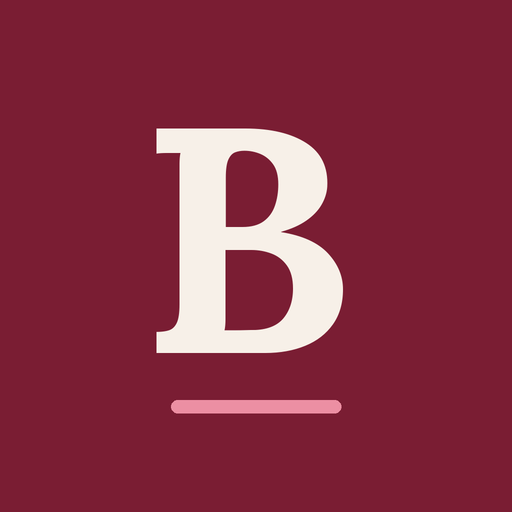
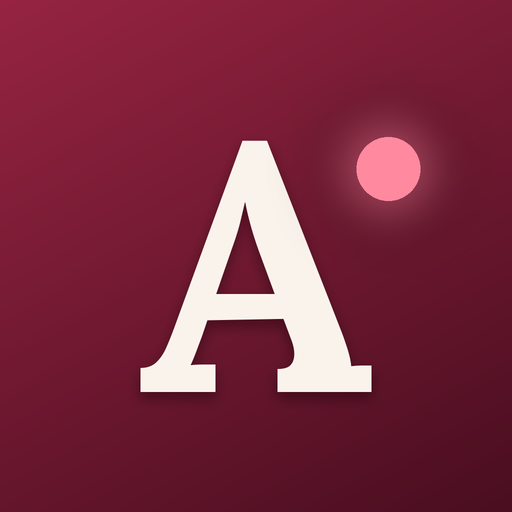
Rename to Awesome News; add Get the app steps, share link, QR code, link preview and offline support
Claude-Session: https://claude.ai/code/session_01ThNhFVJ52fuLizAWmZ7iAg

diff --git a/app.html b/app.html
@@ -1,4 +1,4 @@
-<title>Daily Brief</title>
+<title>Awesome News</title>
 <meta name="claude:viewport-fit-sides" content="cover">
 <link rel="preconnect" href="https://fonts.googleapis.com">
 <link rel="preconnect" href="https://fonts.gstatic.com" crossorigin>
@@ -249,6 +249,38 @@ main { padding-bottom: calc(env(safe-area-inset-bottom, 0px) + 28px); }
 .danger { color: #b3261e; font-weight: 600; }
 :root[data-theme="dark"] .danger { color: #ff8a80; }
 @media (prefers-color-scheme: dark) { :root:not([data-theme="light"]) .danger { color: #ff8a80; } }
+/* Get the app + share */
+.appcard { display: flex; align-items: center; gap: 14px; padding: 16px; border-bottom: 1px solid var(--line); }
+.appicon { width: 64px; height: 64px; border-radius: 15px; flex: none; box-shadow: 0 6px 16px rgba(74, 14, 32, 0.35); max-width: 100%; }
+.appcard .nm { font-family: var(--display); font-weight: 700; font-size: 1.25rem; line-height: 1.15; }
+.appcard .tg { font-size: 0.82rem; color: var(--muted); margin-top: 2px; }
+.ok-line { display: inline-flex; align-items: center; gap: 6px; margin-top: 6px; font-size: 0.82rem; font-weight: 700; color: var(--ok); }
+.ok-line svg { width: 16px; height: 16px; }
+.platforms { padding: 12px 14px 4px; display: flex; justify-content: center; }
+.steps { list-style: none; margin: 0; padding: 6px 16px 16px; counter-reset: step; display: grid; gap: 12px; }
+.steps li { counter-increment: step; display: grid; grid-template-columns: 30px minmax(0, 1fr); gap: 12px; align-items: start; font-size: 0.92rem; }
+.steps li::before { content: counter(step); width: 28px; height: 28px; border-radius: 50%; background: var(--accent-soft); color: var(--accent); font-weight: 700; font-size: 0.84rem; display: grid; place-items: center; }
+.steps b { font-weight: 700; }
+.kbd { display: inline-flex; align-items: center; justify-content: center; vertical-align: -5px; width: 24px; height: 24px; border-radius: 6px; background: var(--bg); box-shadow: inset 0 0 0 1px var(--line); color: var(--accent); margin: 0 2px; }
+.kbd svg { width: 15px; height: 15px; }
+.steps .note { display: block; margin-top: 3px; font-size: 0.8rem; color: var(--muted); }
+.btn-row { display: flex; gap: 10px; padding: 0 16px 16px; flex-wrap: wrap; }
+.btn-row .cta { margin-top: 0; flex: 1 1 140px; padding: 13px 14px; font-size: 0.92rem; }
+.preview { margin: 16px; border-radius: 14px; overflow: hidden; box-shadow: 0 0 0 1px var(--line); background: var(--bg); }
+.preview .banner-img { background: linear-gradient(120deg, #7a1d33, #340a18); padding: 18px; display: flex; align-items: center; gap: 14px; color: #faf3ec; }
+.preview .banner-img img { width: 54px; height: 54px; border-radius: 13px; flex: none; max-width: 100%; }
+.preview .banner-img .nm { font-family: var(--display); font-weight: 700; font-size: 1.3rem; }
+.preview .banner-img .tg { font-size: 0.78rem; color: #f6c8d4; }
+.preview .meta-line { padding: 10px 14px 12px; font-size: 0.8rem; color: var(--muted); }
+.preview .meta-line b { display: block; color: var(--ink); font-size: 0.9rem; }
+.linkbox { display: flex; align-items: center; gap: 8px; margin: 0 16px 14px; padding: 4px 4px 4px 12px; border-radius: 10px; background: var(--bg); box-shadow: inset 0 0 0 1px var(--line); }
+.linkbox input { flex: 1; min-width: 0; border: 0; background: transparent; font-size: 0.86rem; color: var(--ink); padding: 8px 0; outline: none; text-overflow: ellipsis; }
+.linkbox button { flex: none; padding: 8px 12px; border-radius: 8px; background: var(--ink); color: var(--bg); font-weight: 700; font-size: 0.8rem; }
+.qr { display: flex; align-items: center; gap: 16px; padding: 14px 16px 16px; border-top: 1px solid var(--line); }
+.qr .code { width: 112px; height: 112px; flex: none; border-radius: 12px; background: #ffffff; padding: 8px; display: grid; place-items: center; }
+.qr .code svg { width: 100%; height: 100%; display: block; }
+.qr p { margin: 0; font-size: 0.86rem; color: var(--muted); }
+.qr p b { display: block; color: var(--ink); font-size: 0.95rem; margin-bottom: 2px; }
 .about { margin-top: 26px; font-size: 0.8rem; line-height: 1.6; color: var(--muted); text-align: center; text-wrap: balance; }
 
 /* ---------- Toast ---------- */
@@ -275,7 +307,7 @@ main { padding-bottom: calc(env(safe-area-inset-bottom, 0px) + 28px); }
     <header class="head">
       <div>
         <div class="eyebrow" id="eyebrow">Today</div>
-        <h1 class="title" id="title">Daily Brief</h1>
+        <h1 class="title" id="title">Awesome News</h1>
         <div class="stamp"><span class="live stale" id="live"></span><span id="stamp">Loading the latest stories</span></div>
       </div>
       <div class="head-actions">
@@ -336,6 +368,9 @@ main { padding-bottom: calc(env(safe-area-inset-bottom, 0px) + 28px); }
   // Config
   // ======================================================================
   const DEFAULT_NAME = "";            // set per build (the private copy greets its owner)
+  const APP_NAME = "Awesome News";
+  const PUBLIC_URL = "https://ashley-pettit.github.io/awesome-news/";
[1 lines of base64/hex data omitted]
   const SECTIONS = [
     { id: "local", label: "Local", tag: "Local" },
     { id: "headlines", label: "Headlines", tag: "Headlines" },
@@ -522,7 +557,7 @@ main { padding-bottom: calc(env(safe-area-inset-bottom, 0px) + 28px); }
   // ======================================================================
   const toolsHTML = (label) => `<div class="list-tools"><span>${label}</span>
       <button class="switch" type="button" role="switch" id="hideRead" aria-checked="${state.hideRead}">Hide read<span class="track"></span></button></div>`;
-  const welcomeHTML = () => S.welcomed ? "" : `<div class="banner"><p><strong>Make it yours</strong>Add your name, pick your local area and choose your tabs.</p>
+  const welcomeHTML = () => S.welcomed ? "" : `<div class="banner"><p><strong>Make it yours</strong>Add your name, pick your local area, and put ${APP_NAME} on your home screen.</p>
       <button class="pill-btn" type="button" data-open-settings>Set up</button>
       <button class="x-btn" type="button" id="dismissWelcome" aria-label="Dismiss">${I.x}</button></div>`;
 
@@ -718,11 +753,94 @@ main { padding-bottom: calc(env(safe-area-inset-bottom, 0px) + 28px); }
   const seg = (name, value, opts) => `<div class="seg" role="group">${opts.map(([v, l, aria]) => `<button type="button" data-seg="${name}" data-val="${v}" aria-pressed="${value === v}"${aria ? ` aria-label="${aria}"` : ""}>${l}</button>`).join("")}</div>`;
   const toggle = (attr, key, on, label, sub) => `<button class="field" type="button" role="switch" ${attr}="${esc(key)}" aria-checked="${on}"><span class="lbl">${label}${sub ? `<span class="sub">${sub}</span>` : ""}</span><span class="track"></span></button>`;
   const tokens = (kind, list) => `<div class="tokens">${list.map((w, n) => `<span class="token">${esc(w)}<button type="button" data-remove="${kind}" data-n="${n}" aria-label="Remove ${esc(w)}">${I.x}</button></span>`).join("")}</div>`;
+  // ---------- Get the app ----------
+  let installEvent = null;
+  window.addEventListener("beforeinstallprompt", e => { e.preventDefault(); installEvent = e; if (openSheet === "settings") renderSettings(); });
+  window.addEventListener("appinstalled", () => { installEvent = null; toast(`${APP_NAME} is on your home screen`); if (openSheet === "settings") renderSettings(); });
+  const ua = navigator.userAgent || "";
+  const isIOS = /iPhone|iPad|iPod/.test(ua) || (/Macintosh/.test(ua) && navigator.maxTouchPoints > 1);
+  const isAndroid = /Android/.test(ua);
+  const standalone = () => window.matchMedia?.("(display-mode: standalone)").matches || navigator.standalone === true;
+  let stepsFor = isAndroid ? "android" : "ios";
+  const shareUrl = () => state.mode === "static" && /^https?:/.test(location.protocol) ? location.origin + location.pathname : PUBLIC_URL;
+  const K = {
+    share: `<span class="kbd"><svg viewBox="0 0 24 24" fill="none" stroke="currentColor" stroke-width="2.2" stroke-linecap="round" stroke-linejoin="round" aria-label="Share"><path d="M12 15V4M8 8l4-4 4 4"/><path d="M5 12v6.5A1.5 1.5 0 0 0 6.5 20h11a1.5 1.5 0 0 0 1.5-1.5V12"/></svg></span>`,
+    plus: `<span class="kbd"><svg viewBox="0 0 24 24" fill="none" stroke="currentColor" stroke-width="2.2" stroke-linecap="round" aria-label="Add"><rect x="4" y="4" width="16" height="16" rx="3"/><path d="M12 8v8M8 12h8"/></svg></span>`,
+    dots: `<span class="kbd"><svg viewBox="0 0 24 24" fill="currentColor" aria-label="Menu"><circle cx="12" cy="5.5" r="1.8"/><circle cx="12" cy="12" r="1.8"/><circle cx="12" cy="18.5" r="1.8"/></svg></span>`,
+  };
+  const steps = k => ({
+    ios: `<ol class="steps">
+        <li><span>Open ${state.mode === "claude" ? "the link" : "this page"} in <b>Safari</b> and tap the Share button ${K.share} at the bottom.</span></li>
+        <li><span>Scroll down and tap <b>Add to Home Screen</b> ${K.plus}<span class="note">In Chrome on iPhone, the Share button is in the address bar.</span></span></li>
+        <li><span>Tap <b>Add</b>. The ${APP_NAME} icon is now on your home screen.</span></li></ol>`,
+    android: `<ol class="steps">
+        <li><span>Open ${state.mode === "claude" ? "the link" : "this page"} in <b>Chrome</b> and tap the menu ${K.dots} at the top right.</span></li>
+        <li><span>Tap <b>Add to Home screen</b> or <b>Install app</b>.</span></li>
+        <li><span>Tap <b>Install</b>. ${APP_NAME} opens full screen, just like an app.</span></li></ol>`,
+  })[k];
+  function getAppHTML() {
+    const head = `<div class="appcard"><img class="appicon" src="${APP_ICON}" alt=""><div><div class="nm">${APP_NAME}</div><div class="tg">Local, politics, finance, tech and AI news</div>
+      ${standalone() ? `<div class="ok-line">${I.tick} You're using the app</div>` : ""}</div></div>`;
+    if (standalone()) return `<div class="group"><h2>Phone app</h2><div class="card">${head}</div></div>`;
+    const install = installEvent ? `<div class="btn-row"><button class="cta" type="button" id="installBtn">Install ${APP_NAME}</button></div>` : "";
+    const openPublic = state.mode === "claude" ? `<div class="btn-row"><a class="cta" href="${esc(PUBLIC_URL)}" target="_blank" rel="noopener">Open ${APP_NAME} on your phone ${I.out}</a></div>` : "";
+    return `<div class="group"><h2>Get the app</h2><div class="card">${head}
+      ${install}${openPublic}
+      <div class="platforms">${seg("stepsFor", stepsFor, [["ios", "iPhone"], ["android", "Android"]])}</div>
+      ${steps(stepsFor)}
+    </div><p class="hint">No app store needed. It works offline for stories you've already loaded.</p></div>`;
+  }
+
+  // ---------- Share ----------
+  function shareHTML() {
+    const url = shareUrl();
+    const canShare = state.mode === "static" && typeof navigator.share === "function";
+    return `<div class="group"><h2>Share ${APP_NAME}</h2><div class="card">
+      <div class="preview" aria-hidden="true">
+        <div class="banner-img"><img src="${APP_ICON}" alt=""><div><div class="nm">${APP_NAME}</div><div class="tg">Free full articles. No paywalls, no sport.</div></div></div>
+        <div class="meta-line"><b>${APP_NAME}</b>${esc(url.replace(/^https?:\/\//, "").replace(/\/$/, ""))}</div>
+      </div>
+      <div class="linkbox"><input type="text" id="shareLink" readonly value="${esc(url)}" aria-label="Link to ${APP_NAME}"><button type="button" id="copyLink">Copy</button></div>
+      ${canShare ? `<div class="btn-row"><button class="cta" type="button" id="shareApp">Share with a friend</button></div>` : ""}
+      <div class="qr"><div class="code" id="qrCode" aria-label="QR code for ${esc(url)}"></div><p><b>Scan to open</b>Point a phone camera at this code to open ${APP_NAME}.</p></div>
+    </div></div>`;
+  }
+  let qrLib = null;
+  function drawQR() {
+    const box = $("qrCode");
+    if (!box) return;
+    const paint = () => {
+      try {
+        const qr = window.qrcode(0, "M");
+        qr.addData(shareUrl());
+        qr.make();
+        box.innerHTML = qr.createSvgTag({ cellSize: 4, margin: 0, scalable: true });
+      } catch { box.parentElement.hidden = true; }
+    };
+    if (window.qrcode) return paint();
+    if (!qrLib) {
+      qrLib = new Promise((ok, bad) => {
+        const sc = document.createElement("script");
+        sc.src = "https://cdnjs.cloudflare.com/ajax/libs/qrcode-generator/1.4.4/qrcode.min.js";
+        sc.onload = ok; sc.onerror = bad;
+        document.head.appendChild(sc);
+      });
+    }
+    qrLib.then(paint, () => { box.parentElement.hidden = true; });
+  }
+  async function copyLink() {
+    const url = shareUrl(), input = $("shareLink");
+    try { await navigator.clipboard.writeText(url); toast("Link copied"); }
+    catch { if (input) { input.focus(); input.select(); } toast("Link selected. Copy it from the box."); }
+  }
+
   function renderSettings() {
     const regions = state.status?.regions || REGION_FALLBACK;
     const counts = state.status?.counts || {};
     $("sBody").innerHTML = `
       <h1>Settings</h1>
+      ${getAppHTML()}
+      ${shareHTML()}
       <div class="group"><h2>You</h2><div class="card">
         <div class="field"><label for="setName">Your name</label><input type="text" id="setName" placeholder="Optional" autocomplete="given-name" maxlength="30" value="${esc(S.name)}"></div>
         <div class="field"><label for="setRegion">Local news</label><select id="setRegion">${regions.map(r => `<option value="${r.id}"${r.id === S.region ? " selected" : ""}>${esc(r.label)}${counts["local-" + r.id] != null ? ` (${counts["local-" + r.id]})` : ""}</option>`).join("")}</select></div>
@@ -757,9 +875,10 @@ main { padding-bottom: calc(env(safe-area-inset-bottom, 0px) + 28px); }
         <button class="field danger" type="button" id="clearSaved">Clear saved stories <span class="sub" style="color:var(--muted)">${state.saved.length} saved</span></button>
       </div></div>
 
-      <p class="about">Daily Brief pulls from free, full-article sources only: ABC, Guardian Australia, SBS, The Conversation, BBC, Ars Technica, TechCrunch and iTnews. No paywalls, no sport.${state.status?.updatedAt ? `<br>Stories last updated ${esc(longDate(state.status.updatedAt))}.` : ""}</p>`;
+      <p class="about">Awesome News pulls from free, full-article sources only: ABC, Guardian Australia, SBS, The Conversation, BBC, Ars Technica, TechCrunch and iTnews. No paywalls, no sport.${state.status?.updatedAt ? `<br>Stories last updated ${esc(longDate(state.status.updatedAt))}.` : ""}</p>`;
     // Size the A buttons so they read as small to large.
     document.querySelectorAll('[data-seg="textSize"]').forEach((b, n) => { b.style.fontSize = ["0.78rem", "0.9rem", "1.02rem", "1.16rem"][n]; });
+    drawQR();
   }
   function openSettings() {
     S.welcomed = true; saveSettings();
@@ -816,6 +935,9 @@ main { padding-bottom: calc(env(safe-area-inset-bottom, 0px) + 28px); }
     }
     if (t.closest("#hideRead")) { state.hideRead = !state.hideRead; store.set("brief.hideRead", state.hideRead); render(true); return; }
     if (t.closest("#rSave")) { toggleSave(state.readerId); return; }
+    if (t.closest("#copyLink")) { copyLink(); return; }
+    if (t.closest("#shareApp")) { navigator.share({ title: APP_NAME, text: "Local, politics, finance, tech and AI news. Free full articles, no paywalls, no sport.", url: shareUrl() }).catch(() => {}); return; }
+    if (t.closest("#installBtn") && installEvent) { installEvent.prompt(); installEvent.userChoice.finally(() => { installEvent = null; renderSettings(); }); return; }
     if (t.closest("#rShare")) { const i = findItem(state.readerId); if (i) navigator.share({ title: i.title, url: i.url }).catch(() => {}); return; }
     const sv = t.closest("[data-save]");
     if (sv) { toggleSave(sv.dataset.save); if (!openSheet) render(true); else sv.setAttribute("aria-pressed", String(isSaved(sv.dataset.save))); return; }
@@ -843,6 +965,7 @@ main { padding-bottom: calc(env(safe-area-inset-bottom, 0px) + 28px); }
       saveSettings(); src.setAttribute("aria-checked", String(hidden)); return;
     }
     const sg = t.closest("[data-seg]");
+    if (sg && sg.dataset.seg === "stepsFor") { stepsFor = sg.dataset.val; renderSettings(); return; }
     if (sg) {
       S[sg.dataset.seg] = sg.dataset.val; saveSettings(); applyLook();
       sg.parentElement.querySelectorAll("button").forEach(b => b.setAttribute("aria-pressed", String(b === sg))); return;
@@ -967,6 +1090,7 @@ main { padding-bottom: calc(env(safe-area-inset-bottom, 0px) + 28px); }
     if (db) { state.mode = "claude"; loadClaude(db); return; }
     state.mode = "static";
     $("refresh").hidden = false;
+    if ("serviceWorker" in navigator && location.protocol === "https:") navigator.serviceWorker.register("sw.js").catch(() => {});
     loadStatic(false);
     // Pick up new stories while the app stays open.
     setInterval(() => { if (!document.hidden) loadStatic(false); }, 10 * 60000);

diff --git a/sw.js b/sw.js
@@ -1,0 +1,25 @@
+// Awesome News service worker: network first, so news is always fresh when
+// you're online, with the last copy kept so the app still opens offline.
+const CACHE = "awesome-news-v1";
+
+self.addEventListener("install", () => self.skipWaiting());
+self.addEventListener("activate", e => e.waitUntil(self.clients.claim()));
+
+self.addEventListener("fetch", e => {
+  const req = e.request;
+  const url = new URL(req.url);
+  if (req.method !== "GET" || url.origin !== self.location.origin) return;
+  // One cache entry per file, ignoring the ?v= cache-busting query.
+  const key = url.origin + url.pathname;
+  e.respondWith(
+    fetch(req)
+      .then(res => {
+        if (res.ok) {
+          const copy = res.clone();
+          caches.open(CACHE).then(c => c.put(key, copy));
+        }
+        return res;
+      })
+      .catch(() => caches.match(key).then(hit => hit || Response.error()))
+  );
+});

diff --git a/build.py b/build.py
@@ -16,7 +16,12 @@ here = os.path.dirname(os.path.abspath(__file__))
 app = open(os.path.join(here, "app.html"), encoding="utf-8").read()
 
 m = re.search(r"<title>(.*?)</title>", app)
-title = m.group(1) if m else "Daily Brief"
+title = m.group(1) if m else "Awesome News"
+# Public address, used for the link preview when someone shares the site.
+repo = os.environ.get("GITHUB_REPOSITORY", "Ashley-Pettit/awesome-news")
+owner, name = repo.split("/", 1)
+site_url = os.environ.get("SITE_URL", f"https://{owner.lower()}.github.io/{name}/")
+desc = "Local, politics, finance, tech and AI news from free, full-article sources. No paywalls, no sport."
 body = re.sub(r"<title>.*?</title>\s*", "", app, count=1)
 body = re.sub(r'<meta name="claude:[^"]+"[^>]*>\s*', "", body)
 
@@ -26,12 +31,27 @@ head = f"""<!doctype html>
 <meta charset="utf-8">
 <meta name="viewport" content="width=device-width,initial-scale=1,viewport-fit=cover">
 <title>{title}</title>
-<meta name="description" content="Brisbane and Australian news, politics, finance, tech and AI from free, full-article sources. No paywalls, no sport.">
+<meta name="description" content="{desc}">
+<link rel="canonical" href="{site_url}">
+<meta property="og:type" content="website">
+<meta property="og:site_name" content="{title}">
+<meta property="og:title" content="{title}">
+<meta property="og:description" content="{desc}">
+<meta property="og:url" content="{site_url}">
+<meta property="og:image" content="{site_url}icons/share-card.png">
+<meta property="og:image:width" content="1200">
+<meta property="og:image:height" content="630">
+<meta property="og:image:alt" content="Awesome News app icon and name">
+<meta name="twitter:card" content="summary_large_image">
+<meta name="twitter:title" content="{title}">
+<meta name="twitter:description" content="{desc}">
+<meta name="twitter:image" content="{site_url}icons/share-card.png">
 <meta name="theme-color" content="#f4f3f1" media="(prefers-color-scheme: light)">
+<meta name="format-detection" content="telephone=no">
 <meta name="theme-color" content="#0f0e11" media="(prefers-color-scheme: dark)">
 <meta name="apple-mobile-web-app-capable" content="yes">
 <meta name="mobile-web-app-capable" content="yes">
-<meta name="apple-mobile-web-app-title" content="Daily Brief">
+<meta name="apple-mobile-web-app-title" content="{title}">
 <meta name="apple-mobile-web-app-status-bar-style" content="default">
 <link rel="manifest" href="manifest.webmanifest">
 <link rel="icon" type="image/png" href="icons/favicon-64.png">
@@ -51,5 +71,6 @@ with open(os.path.join(site, "index.html"), "w", encoding="utf-8") as f:
     f.write(head + body.strip() + "\n</body>\n</html>\n")
 shutil.copytree(os.path.join(here, "icons"), os.path.join(site, "icons"), dirs_exist_ok=True)
 shutil.copy(os.path.join(here, "manifest.webmanifest"), site)
+shutil.copy(os.path.join(here, "sw.js"), site)
 open(os.path.join(site, ".nojekyll"), "w").close()
 print(f"Built {site}/index.html")

diff --git a/fetcher.py b/fetcher.py
@@ -1,5 +1,5 @@
 #!/usr/bin/env python3
-"""Daily Brief fetcher.
+"""Awesome News fetcher.
 
 Pulls free, full-article RSS feeds, drops paywalled, video, promo and sport
 items, sorts stories into sections and writes JSON the app reads.
@@ -157,7 +157,7 @@ SPORT_TITLE = re.compile(r"\b(AFLW?|NRLW?|A-League|Socceroos?|Matildas|Wallabies
                          r"coach|striker|goalkeeper|batter|bowler|jockey|golfer|tennis|boxer|UFC|NFL|NBA|MLB|"
                          r"Kangaroos (?:vs|v)\b|Constellation Cup)\b", re.I)
 
-UA = "Mozilla/5.0 (compatible; DailyBrief news reader)"
+UA = "Mozilla/5.0 (compatible; AwesomeNews reader)"
 NS = {
     "atom": "http://www.w3.org/2005/Atom",
     "media": "http://search.yahoo.com/mrss/",

diff --git a/README.md b/README.md
@@ -1,10 +1,15 @@
-# Daily Brief
+# Awesome News
 
 A phone-friendly news reader for Australians. It pulls the latest stories from free, full-article sources, sorts them into tabs and lets you read them without leaving the app.
 
-**Open it:** https://ashley-pettit.github.io/daily-brief/
+**Open it:** https://ashley-pettit.github.io/awesome-news/
 
-On your phone, open the link and choose **Add to Home Screen** to use it like an app.
+## Put it on your phone
+
+- **iPhone:** open the link in Safari, tap the Share button, then **Add to Home Screen**.
+- **Android:** open the link in Chrome, tap the ⋮ menu, then **Install app** (or **Add to Home screen**).
+
+Settings in the app shows these steps too, plus a link and QR code to share it with friends.
 
 ## What's in it
 
@@ -26,7 +31,8 @@ Only The Conversation's articles are shown in full, because they're published un
 
 - `fetcher.py` reads the publishers' RSS feeds, filters out sport, video, podcasts and sponsored posts, sorts stories into sections and writes JSON files.
 - `app.html` is the whole app: one HTML file with no build tools or libraries.
-- `build.py` wraps `app.html` into a full web page with the home-screen icon.
+- `build.py` wraps `app.html` into a full web page with the home-screen icon and link preview.
+- `sw.js` keeps a copy of the app so it still opens with no signal.
 - `.github/workflows/pages.yml` runs every hour: fetch the news, build the page and publish it to GitHub Pages.
 
 ### Run it yourself
